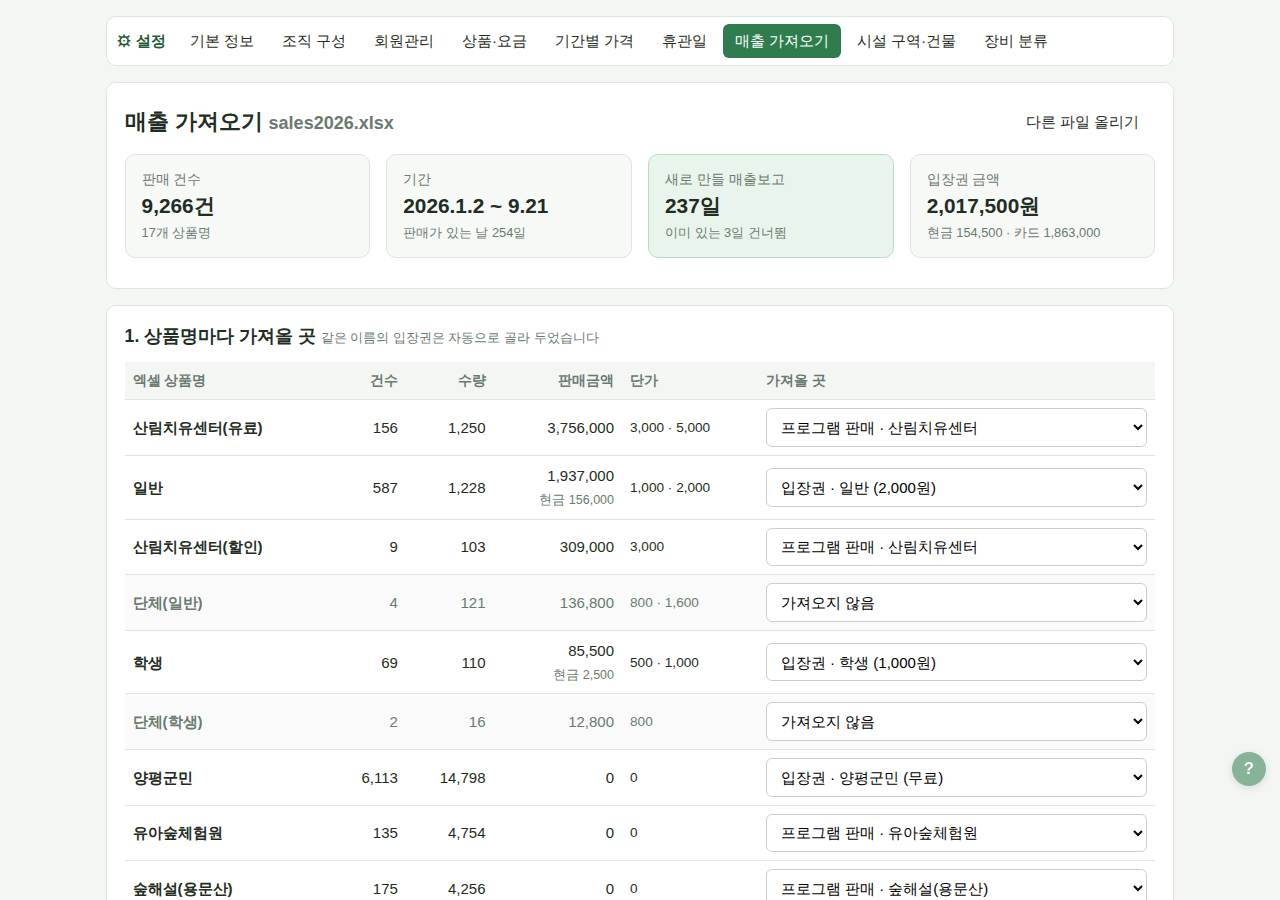
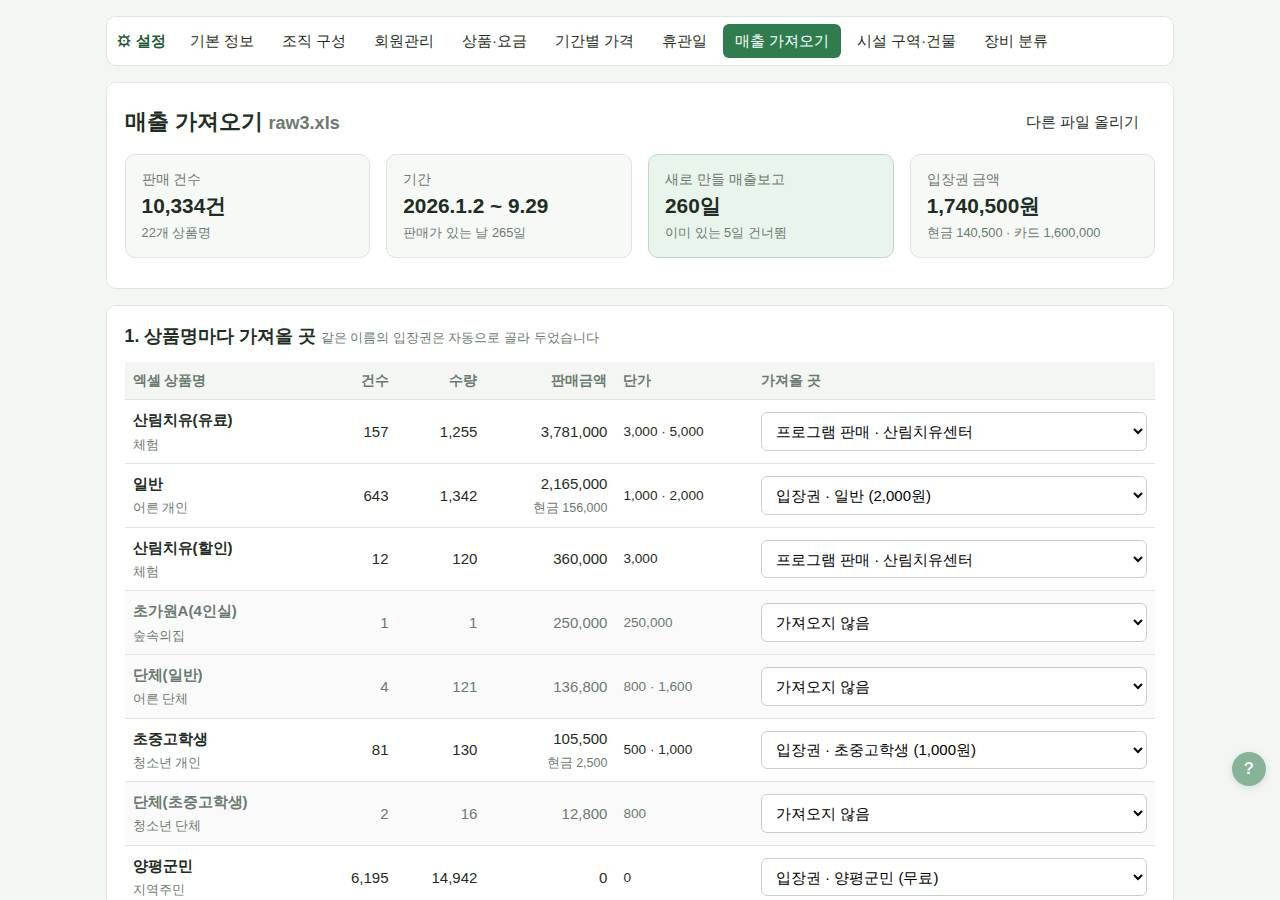
매출 가져오기: 산림청 통합운영시스템 상품판매현황(.xls) 그대로 올리기
PHP 로 OLE2·BIFF8(.xls) 직접 읽기(xls_read), 위쪽 10줄 안에서 머리글 줄 찾기, 사용일자·결제수단·단가(원)·금액(원) 인식,
합계·쪽 번호 줄 건너뜀, 상품구분 표시. 도움말·업데이트·README 반영.

Claude-Session: https://claude.ai/code/session_01Lr6yxKyasrSL9QLfMX5TX8

diff --git a/admin/import_sales.php b/admin/import_sales.php
@@ -17,12 +17,19 @@ $imp = $_SESSION[IMP_KEY] ?? null;
 /** 엑셀 머리글에서 열 찾기 */
 function imp_columns(array $head): array
 {
-    $want = ['date' => ['날짜', '일자', '판매일'], 'name' => ['상품명', '상품', '권종'], 'pay' => ['지불방법', '결제', '결제방법', '지불'],
-             'price' => ['금액', '단가'], 'qty' => ['수량', '매수'], 'amount' => ['판매금액', '합계', '판매액']];
+    // 머리글 이름 → 항목 (공백·"(원)" 같은 단위는 빼고 비교). 산림청 통합운영시스템: 사용일자·상품구분·상품명·결제수단·단가(원)·수량·금액(원)
+    $want = ['date' => ['날짜', '일자', '판매일', '사용일자', '이용일자', '판매일자'], 'name' => ['상품명', '상품', '권종'], 'cat' => ['상품구분', '구분'],
+             'pay' => ['지불방법', '결제', '결제방법', '결제수단', '지불'], 'price' => ['단가'], 'qty' => ['수량', '매수'], 'amount' => ['판매금액', '판매액', '합계금액']];
     $cols = [];
+    $gold = null; // '금액': 판매금액 열이 따로 있으면 단가, 없으면 판매금액
     foreach ($head as $i => $h) {
-        $h = preg_replace('/\s+/u', '', (string) $h);
+        $h = preg_replace('/\s+|\((원|개|매|명)\)/u', '', (string) $h);
+        if ($h === '금액' && $gold === null) { $gold = $i; continue; }
         foreach ($want as $k => $names) if (!isset($cols[$k]) && in_array($h, $names, true)) { $cols[$k] = $i; break; }
+    }
+    if ($gold !== null) {
+        if (isset($cols['amount'])) $cols['price'] ??= $gold;
+        else $cols['amount'] = $gold;
     }
     return $cols;
 }
@@ -116,9 +123,14 @@ if (is_post()) {
             flash($e->getMessage(), 'error');
             redirect('admin/import_sales.php');
         }
+        // 머리글 줄 찾기: 위쪽 10줄 안에서 날짜·상품명·수량·금액 열이 모두 있는 줄 (제목·출력일시 줄이 위에 있어도 됨)
+        $start = 1;
         $cols = imp_columns($rows[0] ?? []);
         $missing = array_diff(['date', 'name', 'qty', 'amount'], array_keys($cols));
-        $start = 1; // 첫 행 = 머리글
+        for ($h = 1; $missing && $h < min(10, count($rows)); $h++) {
+            $try = imp_columns($rows[$h]);
+            if (!array_diff(['date', 'name', 'qty', 'amount'], array_keys($try))) { $cols = $try; $missing = []; $start = $h + 1; }
+        }
         // 머리글 없이 첫 줄부터 판매 내역이면 기본 열 순서(날짜·상품명·지불방법·금액·수량·판매금액)로 읽는다
         if ($missing && count($rows[0] ?? []) >= 6 && sheet_date($rows[0][0] ?? null)) {
             $cols = ['date' => 0, 'name' => 1, 'pay' => 2, 'price' => 3, 'qty' => 4, 'amount' => 5];
@@ -126,19 +138,23 @@ if (is_post()) {
             $start = 0;
         }
         if ($missing) {
-            flash('엑셀 첫 줄(머리글)에서 ' . implode(', ', array_map(fn($k) => ['date' => '날짜', 'name' => '상품명', 'qty' => '수량', 'amount' => '판매금액'][$k], $missing)) . ' 열을 찾지 못했습니다. 머리글이 없으면 A~F열이 날짜·상품명·지불방법·금액·수량·판매금액 순서여야 합니다.', 'error');
+            flash('엑셀 위쪽(머리글)에서 ' . implode(', ', array_map(fn($k) => ['date' => '날짜', 'name' => '상품명', 'qty' => '수량', 'amount' => '판매금액'][$k], $missing)) . ' 열을 찾지 못했습니다. 머리글이 없으면 A~F열이 날짜·상품명·지불방법·금액·수량·판매금액 순서여야 합니다.', 'error');
             redirect('admin/import_sales.php');
         }
         $agg = [];    // 날짜 => 상품명 => 지불|단가 => 합계
         $names = [];  // 상품명 => 합계
         $bad = [];
+        $dataRows = 0;
         foreach (array_slice($rows, $start) as $i => $r) {
+            if (array_filter($r, fn($v) => is_string($v) && in_array(trim($v), ['합계', '소계', '총계', '총합계'], true))) continue; // 합계 줄
             $date = sheet_date($r[$cols['date']] ?? null);
             $name = trim((string) ($r[$cols['name']] ?? ''));
             $qty = (int) round((float) ($r[$cols['qty']] ?? 0));
             $amt = (int) round((float) ($r[$cols['amount']] ?? 0));
             if (!$date && $name === '' && !$qty && !$amt) continue; // 빈 줄
             if (!$date || $name === '') { if (count($bad) < 20) $bad[] = ($i + $start + 1) . '행'; continue; }
+            $dataRows++;
+            $cat = isset($cols['cat']) ? trim((string) ($r[$cols['cat']] ?? '')) : '';
             $pay = isset($cols['pay']) && str_contains((string) ($r[$cols['pay']] ?? ''), '현금') ? '현금' : (isset($cols['pay']) ? '카드' : '카드');
             $price = isset($cols['price']) ? (int) round((float) ($r[$cols['price']] ?? 0)) : ($qty ? intdiv($amt, $qty) : 0);
             $k = "$pay|$price";
@@ -146,7 +162,8 @@ if (is_post()) {
             $agg[$date][$name][$k]['qty'] += $qty;
             $agg[$date][$name][$k]['amount'] += $amt;
             $agg[$date][$name][$k]['rows']++;
-            $names[$name] ??= ['rows' => 0, 'qty' => 0, 'amount' => 0, 'cash' => 0, 'prices' => []];
+            $names[$name] ??= ['rows' => 0, 'qty' => 0, 'amount' => 0, 'cash' => 0, 'prices' => [], 'cats' => []];
+            if ($cat !== '') $names[$name]['cats'][$cat] = true;
             $names[$name]['rows']++;
             $names[$name]['qty'] += $qty;
             $names[$name]['amount'] += $amt;
@@ -157,7 +174,7 @@ if (is_post()) {
         ksort($agg);
         uasort($names, fn($a, $b) => $b['amount'] <=> $a['amount'] ?: $b['qty'] <=> $a['qty']);
         $targets = imp_targets();
-        $_SESSION[IMP_KEY] = ['file' => (string) $f['name'], 'rows' => count($rows) - $start, 'bad' => $bad, 'agg' => array_map(fn($d) => array_map('array_values', $d), $agg),
+        $_SESSION[IMP_KEY] = ['file' => (string) $f['name'], 'rows' => $dataRows, 'bad' => $bad, 'agg' => array_map(fn($d) => array_map('array_values', $d), $agg),
             'names' => $names, 'map' => array_combine(array_keys($names), array_map(fn($n) => imp_guess($n, $targets), array_keys($names))), 'status' => 'approved'];
         redirect('admin/import_sales.php');
     }
@@ -210,14 +227,15 @@ if (!$imp): ?>
   <h1>매출 가져오기 <small class="muted">엑셀 → 날짜별 매출보고</small></h1>
   <p>매표 프로그램에서 내려받은 <b>판매 내역 엑셀</b>을 올리면 날짜별로 묶어 <b>매출보고</b>를 한꺼번에 만듭니다.</p>
   <ul class="small">
-    <li>첫 줄(머리글)에 <b>날짜 · 상품명 · 지불방법 · 금액 · 수량 · 판매금액</b> 열이 있어야 합니다 (한 줄 = 판매 1건). .xlsx 또는 .csv<br>
-      머리글이 없으면 A~F열을 이 순서(날짜·상품명·지불방법·금액·수량·판매금액)로 읽습니다.</li>
+    <li><b>산림청 통합운영시스템의 '상품판매현황' 엑셀(.xls)을 그대로</b> 올리면 됩니다 (제목 줄·합계 줄·쪽 번호는 알아서 건너뜀).</li>
+    <li>다른 엑셀(.xlsx/.xls/.csv)도 머리글에 <b>날짜(사용일자) · 상품명 · 지불방법(결제수단) · 단가 · 수량 · 금액</b> 열이 있으면 됩니다 (한 줄 = 판매 1건).
+      머리글이 없으면 A~F열을 날짜·상품명·지불방법·단가·수량·판매금액 순서로 읽습니다.</li>
     <li>올린 뒤 상품명마다 <b>가져올 곳</b>(입장권 상품 / 프로그램 판매 / 가져오지 않음)을 확인하고, 미리보기를 본 다음 가져옵니다. 올리기만 해서는 아무것도 저장되지 않습니다.</li>
     <li><b>이미 매출보고가 있는 날은 건너뜁니다</b> (덮어쓰지 않음). 객실·시설대관은 가져오지 않습니다.</li>
   </ul>
   <form method="post" enctype="multipart/form-data" class="actions" style="justify-content:flex-start">
     <?= csrf_field() ?><input type="hidden" name="act" value="upload">
-    <input type="file" name="file" accept=".xlsx,.csv" required>
+    <input type="file" name="file" accept=".xlsx,.xls,.csv" required>
     <button class="btn primary">올리기</button>
   </form>
 </section>
@@ -278,7 +296,7 @@ $unmapped = array_filter($imp['map'], fn($v) => $v === '');
     <tbody>
     <?php $i = 0; foreach ($imp['names'] as $name => $n): $cur = $imp['map'][$name] ?? ''; ?>
       <tr class="<?= $cur === '' ? 'inactive' : '' ?>">
-        <td><b><?= e($name) ?></b></td><td class="right"><?= number_format($n['rows']) ?></td><td class="right"><?= number_format($n['qty']) ?></td>
+        <td><b><?= e($name) ?></b><?= !empty($n['cats']) ? '<br><small class="muted">' . e(implode(', ', array_keys($n['cats']))) . '</small>' : '' ?></td><td class="right"><?= number_format($n['rows']) ?></td><td class="right"><?= number_format($n['qty']) ?></td>
         <td class="right"><?= number_format($n['amount']) ?><?= $n['cash'] ? '<br><small class="muted">현금 ' . number_format($n['cash']) . '</small>' : '' ?></td>
         <td class="small"><?= e(implode(' · ', array_map('number_format', array_keys($n['prices'])))) ?></td>
         <td><select name="map[<?= $i ?>]">

diff --git a/app/xlsx_read.php b/app/xlsx_read.php
@@ -8,6 +8,9 @@ defined('APP_ROOT') || exit;
  */
 function sheet_read(string $path, string $name = ''): array
 {
+    $head = (string) file_get_contents($path, false, null, 0, 8);
+    if ($head === "\xD0\xCF\x11\xE0\xA1\xB1\x1A\xE1") return xls_read($path); // 예전 엑셀(.xls, 산림청 통합운영시스템 등)
+    if (str_starts_with(ltrim($head), '<')) throw new RuntimeException('이 파일은 엑셀 형식이 아닙니다 (웹 페이지를 .xls 로 저장한 파일). 엑셀에서 열어 "다른 이름으로 저장 › Excel 통합 문서(.xlsx)"로 저장해 올려 주세요.');
     if (preg_match('/\.csv$/i', $name) || !class_exists('ZipArchive')) return csv_read($path);
     $zip = new ZipArchive();
     if ($zip->open($path) !== true) throw new RuntimeException('엑셀(.xlsx) 파일을 열 수 없습니다. 엑셀에서 "다른 이름으로 저장 › Excel 통합 문서(.xlsx)"로 저장해 올려 주세요.');
@@ -53,6 +56,148 @@ function sheet_read(string $path, string $name = ''): array
         if (!$cells) continue;
         $out = [];
         for ($i = 0; $i <= max(array_keys($cells)); $i++) $out[] = $cells[$i] ?? null;
+        $rows[] = $out;
+    }
+    return $rows;
+}
+
+/**
+ * 예전 엑셀(.xls, BIFF8) 첫 번째 시트 읽기 — 외부 라이브러리 없이.
+ * OLE2 복합 파일에서 Workbook 스트림을 꺼내 문자열표(SST)와 셀(LABELSST·LABEL·NUMBER·RK·MULRK·FORMULA)만 읽는다.
+ */
+function xls_read(string $path): array
+{
+    $f = (string) file_get_contents($path);
+    $u16 = fn(string $b, int $o) => unpack('v', $b, $o)[1];
+    $u32 = fn(string $b, int $o) => unpack('V', $b, $o)[1];
+    $ss = 1 << $u16($f, 0x1E);          // 섹터 크기 (보통 512)
+    $mss = 1 << $u16($f, 0x20);         // 미니 섹터 크기 (64)
+    $sector = fn(int $sid) => substr($f, ($sid + 1) * $ss, $ss);
+    // FAT 섹터 목록 (헤더 109개 + DIFAT 사슬)
+    $fatSids = [];
+    for ($i = 0; $i < 109; $i++) { $v = $u32($f, 0x4C + $i * 4); if ($v < 0xFFFFFFFA) $fatSids[] = $v; }
+    for ($d = $u32($f, 0x44), $n = $u32($f, 0x48); $n > 0 && $d < 0xFFFFFFFA; $n--) {
+        $blk = $sector($d);
+        for ($i = 0; $i < $ss / 4 - 1; $i++) { $v = $u32($blk, $i * 4); if ($v < 0xFFFFFFFA) $fatSids[] = $v; }
+        $d = $u32($blk, $ss - 4);
+    }
+    $fat = [];
+    foreach ($fatSids as $sid) foreach (unpack('V*', $sector($sid)) as $v) $fat[] = $v;
+    $chain = function (int $start, array $table) {
+        $out = [];
+        for ($s = $start, $guard = 0; $s < 0xFFFFFFFA && isset($table[$s]) && $guard < 2000000; $s = $table[$s], $guard++) $out[] = $s;
+        return $out;
+    };
+    $read = fn(int $start) => implode('', array_map($sector, $chain($start, $fat)));
+    // 디렉터리에서 Workbook 스트림 찾기
+    $dir = $read($u32($f, 0x30));
+    $root = null; $wb = null;
+    for ($o = 0; $o + 128 <= strlen($dir); $o += 128) {
+        $nlen = $u16($dir, $o + 0x40);
+        $ename = $nlen > 2 ? mb_convert_encoding(substr($dir, $o, $nlen - 2), 'UTF-8', 'UTF-16LE') : '';
+        $ent = ['type' => ord($dir[$o + 0x42]), 'start' => $u32($dir, $o + 0x74), 'size' => $u32($dir, $o + 0x78)];
+        if ($ent['type'] === 5) $root = $ent;
+        if (in_array($ename, ['Workbook', 'Book'], true)) $wb = $ent;
+    }
+    if (!$wb) throw new RuntimeException('엑셀(.xls) 파일에서 시트를 찾지 못했습니다.');
+    if ($wb['size'] < $u32($f, 0x38) && $root) { // 작은 스트림은 미니 스트림에 있다
+        $minifat = [];
+        foreach ($chain($u32($f, 0x3C), $fat) as $sid) foreach (unpack('V*', $sector($sid)) as $v) $minifat[] = $v;
+        $ministream = $read($root['start']);
+        $data = implode('', array_map(fn($s) => substr($ministream, $s * $mss, $mss), $chain($wb['start'], $minifat)));
+    } else {
+        $data = $read($wb['start']);
+    }
+    $data = substr($data, 0, $wb['size']);
+    $len = strlen($data);
+    // 문자열 읽기 (BIFF8: 글자 수, 옵션(압축·서식·확장), CONTINUE 경계에서는 옵션 바이트가 다시 온다)
+    $str = function (string $buf, int &$p, array $bounds = [], bool $short = false) use ($u16, $u32) {
+        $cch = $short ? ord($buf[$p++]) : $u16($buf, $p);
+        if (!$short) $p += 2;
+        $flags = ord($buf[$p++]);
+        $rich = $flags & 0x08 ? $u16($buf, $p) : 0; if ($flags & 0x08) $p += 2;
+        $ext = $flags & 0x04 ? $u32($buf, $p) : 0; if ($flags & 0x04) $p += 4;
+        $high = (bool) ($flags & 0x01);
+        $out = '';
+        // 글자가 CONTINUE 레코드 첫머리에서 시작하면 거기에 옵션 바이트가 다시 온다
+        if ($cch > 0 && in_array($p, $bounds, true)) $high = (bool) (ord($buf[$p++]) & 0x01);
+        while ($cch > 0) {
+            $next = PHP_INT_MAX;
+            foreach ($bounds as $b) if ($b > $p) { $next = $b; break; }
+            $avail = intdiv(min($next, strlen($buf)) - $p, $high ? 2 : 1);
+            $take = min($cch, $avail);
+            $chunk = substr($buf, $p, $take * ($high ? 2 : 1));
+            $out .= $high ? mb_convert_encoding($chunk, 'UTF-8', 'UTF-16LE') : mb_convert_encoding($chunk, 'UTF-8', 'ISO-8859-1');
+            $p += strlen($chunk);
+            $cch -= $take;
+            if ($cch > 0) { if ($p >= strlen($buf)) break; $high = (bool) (ord($buf[$p++]) & 0x01); }
+        }
+        $p += $rich * 4 + $ext;
+        return $out;
+    };
+    $rk = function (int $v): float|int {
+        if ($v & 0x02) { $n = $v >> 2; if ($n & 0x20000000) $n -= 0x40000000; }
+        else { $n = unpack('e', pack('V', 0) . pack('V', $v & 0xFFFFFFFC))[1]; }
+        return $v & 0x01 ? $n / 100 : $n;
+    };
+    // 1) 워크북 영역: 문자열표 · 첫 시트 위치
+    $sst = [];
+    $sheetPos = null;
+    for ($p = 0; $p + 4 <= $len;) {
+        $type = $u16($data, $p); $rl = $u16($data, $p + 2);
+        $rec = substr($data, $p + 4, $rl);
+        $p += 4 + $rl;
+        if ($type === 0x0085 && $sheetPos === null && ord($rec[5] ?? "\0") === 0) $sheetPos = $u32($rec, 0);
+        if ($type === 0x00FC) {
+            $bounds = [];
+            while ($p + 4 <= $len && $u16($data, $p) === 0x003C) { // CONTINUE
+                $cl = $u16($data, $p + 2);
+                $bounds[] = strlen($rec);
+                $rec .= substr($data, $p + 4, $cl);
+                $p += 4 + $cl;
+            }
+            $count = $u32($rec, 4);
+            for ($q = 8, $i = 0; $i < $count && $q < strlen($rec); $i++) $sst[] = $str($rec, $q, $bounds);
+        }
+        if ($type === 0x000A) break; // 워크북 영역 끝
+    }
+    if ($sheetPos === null) throw new RuntimeException('엑셀(.xls) 파일에서 시트를 찾지 못했습니다.');
+    // 2) 첫 시트의 셀
+    $cells = [];
+    $pendingFormula = null;
+    for ($p = $sheetPos; $p + 4 <= $len;) {
+        $type = $u16($data, $p); $rl = $u16($data, $p + 2);
+        $rec = substr($data, $p + 4, $rl);
+        $p += 4 + $rl;
+        if ($type === 0x000A) break; // 시트 끝
+        if ($rl < 6 && $type !== 0x0207) continue;
+        $r = $rl >= 4 ? $u16($rec, 0) : 0; $c = $rl >= 4 ? $u16($rec, 2) : 0;
+        switch ($type) {
+            case 0x00FD: $cells[$r][$c] = $sst[$u32($rec, 6)] ?? ''; break;                 // LABELSST
+            case 0x0204: $q = 6; $cells[$r][$c] = $str($rec, $q); break;                   // LABEL
+            case 0x0203: $cells[$r][$c] = unpack('e', $rec, 6)[1]; break;                  // NUMBER
+            case 0x027E: $cells[$r][$c] = $rk($u32($rec, 6)); break;                       // RK
+            case 0x00BD:                                                                     // MULRK
+                for ($q = 4, $cc = $c; $q + 6 <= $rl - 2; $q += 6, $cc++) $cells[$r][$cc] = $rk($u32($rec, $q + 2));
+                break;
+            case 0x0006:                                                                     // FORMULA
+                if (substr($rec, 12, 2) === "\xFF\xFF") { $pendingFormula = [$r, $c]; if (ord($rec[6]) === 1) $cells[$r][$c] = ord($rec[8]); }
+                else $cells[$r][$c] = unpack('e', $rec, 6)[1];
+                break;
+            case 0x0207:                                                                     // STRING (수식 결과)
+                if ($pendingFormula) { $q = 0; $cells[$pendingFormula[0]][$pendingFormula[1]] = $str($rec, $q); $pendingFormula = null; }
+                break;
+            case 0x0205: $cells[$r][$c] = ord($rec[6]); break;                              // BOOLERR
+        }
+    }
+    ksort($cells);
+    $rows = [];
+    foreach ($cells as $row) {
+        $out = [];
+        for ($i = 0; $i <= max(array_keys($row)); $i++) {
+            $v = $row[$i] ?? null;
+            $out[] = is_float($v) && floor($v) === $v && abs($v) < 1e15 ? $v : $v;
+        }
         $rows[] = $out;
     }
     return $rows;

diff --git a/app/help.php b/app/help.php
@@ -354,8 +354,9 @@ HTML],
             ['id' => 'set_import', 'title' => '매출 가져오기 (엑셀 → 매출보고)', 'keys' => ['settings_import'], 'img' => ['set_import.jpg' => '설정 › 매출 가져오기'], 'body' => <<<'HTML'
 <p>매표 프로그램에서 내려받은 <b>판매 내역 엑셀</b>(한 줄 = 판매 1건)을 올려 날짜별 <b>매출보고</b>를 한꺼번에 만듭니다. 최고관리자만 씁니다.</p>
 <ol>
-  <li>엑셀 첫 줄(머리글)에 <b>날짜 · 상품명 · 지불방법 · 금액 · 수량 · 판매금액</b> 열이 있어야 합니다 (.xlsx 또는 .csv). 머리글이 없으면 A~F열을 이 순서로 읽습니다. <b>올리기</b>만 해서는 저장되지 않습니다.</li>
-  <li><b>상품명마다 가져올 곳</b>을 확인합니다: 입장권 상품 / 프로그램 판매(분야) / 가져오지 않음. 같은 이름의 입장권은 자동으로 골라 둡니다. 알맞은 입장권이 없으면 설정 › 상품·요금에서 먼저 만든 뒤 새로고침하세요.</li>
+  <li><b>산림청 통합운영시스템 › 상품판매현황</b>에서 받은 엑셀(.xls)을 <b>고치지 않고 그대로</b> 올리면 됩니다. 제목 줄·합계 줄·쪽 번호는 알아서 건너뜁니다.
+    다른 엑셀(.xlsx/.xls/.csv)은 머리글에 날짜(사용일자) · 상품명 · 지불방법(결제수단) · 단가 · 수량 · 금액 열이 있으면 되고, 머리글이 없으면 A~F열을 이 순서로 읽습니다. <b>올리기</b>만 해서는 저장되지 않습니다.</li>
+  <li><b>상품명마다 가져올 곳</b>을 확인합니다: 입장권 상품 / 프로그램 판매(분야) / 가져오지 않음. 같은 이름의 입장권은 자동으로 골라 두고, 상품명 아래에 엑셀의 <b>상품구분</b>(지역주민·체험·추가인원 등)이 보입니다. 추가인원·숙박·숲속의집처럼 매출보고에 넣지 않을 것은 '가져오지 않음'으로 두세요. 알맞은 입장권이 없으면 설정 › 상품·요금에서 먼저 만든 뒤 새로고침하세요.</li>
   <li><b>등록 상태</b>: 결재완료(지난 자료, 결재를 다시 받지 않음) 또는 임시저장.</li>
   <li><b>미리보기 다시 계산</b>으로 만들 일수·금액을 확인한 뒤 <b>가져오기</b>를 누릅니다.</li>
 </ol>

diff --git a/app/changelog.php b/app/changelog.php
@@ -7,6 +7,10 @@ defined('APP_ROOT') || exit;
  *   ['date' => 'YYYY-MM-DD', 'title' => '한 줄 요약', 'items' => ['자세한 내용', ...], 'menu' => '관련 메뉴(선택)']
  */
 const CHANGELOG = [
+    ['date' => '2026-09-30', 'title' => '매출 가져오기: 산림청 통합운영시스템 엑셀(.xls) 그대로 올리기', 'menu' => '설정', 'items' => [
+        "산림청 통합운영시스템의 '상품판매현황' 엑셀(.xls)을 고치지 않고 올릴 수 있습니다. 제목 줄·합계 줄·쪽 번호는 건너뛰고, 사용일자·상품명·결제수단·단가·수량·금액 열을 찾아 읽습니다.",
+        '가져올 곳을 고르는 표에 엑셀의 상품구분(지역주민·체험·추가인원 등)이 함께 보입니다.',
+    ]],
     ['date' => '2026-09-30', 'title' => '매출 가져오기: 머리글 없는 엑셀도 읽기', 'menu' => '설정', 'items' => [
         "첫 줄에 머리글(날짜·상품명…)이 없는 엑셀을 올리면 '열을 찾지 못했습니다'가 나오던 문제를 고쳤습니다. 머리글이 없으면 A~F열을 날짜·상품명·지불방법·금액·수량·판매금액 순서로 읽습니다.",
     ]],

diff --git a/README.md b/README.md
@@ -295,7 +295,9 @@
   진단 화면은 이 기록, 서버 환경(PHP·확장·한도·opcache·폴더 권한), 운영보고 저장 모의 실험(트랜잭션 되돌림), 운영보고와 같은 모양의 폼 보내기 실험, opcache 비우기를 제공합니다.
 
 ## 4-0-c. 매출 가져오기 (설정 › 매출 가져오기, 최고관리자)
-- `admin/import_sales.php`: 매표 프로그램의 판매 내역 엑셀(.xlsx/.csv, 머리글 **날짜·상품명·지불방법·금액·수량·판매금액**, 한 줄 = 1건 — 머리글이 없고 첫 칸이 날짜면 A~F열을 이 순서로 읽음)을 읽어(`app/xlsx_read.php`, zip 확장만 사용)
+- `admin/import_sales.php`: 매표 프로그램의 판매 내역 엑셀(.xlsx/.csv, 머리글 **날짜·상품명·지불방법·금액·수량·판매금액**, 한 줄 = 1건 — 머리글이 없고 첫 칸이 날짜면 A~F열을 이 순서로 읽음).
+  **산림청 통합운영시스템 '상품판매현황'(.xls, BIFF8)**도 그대로: `xls_read()`가 OLE2·BIFF8을 직접 읽고(외부 라이브러리 없음), 위쪽 10줄 안에서 머리글 줄(사용일자·상품구분·상품명·결제수단·단가(원)·수량·금액(원))을 찾으며
+  합계·쪽 번호 줄은 건너뜁니다. 상품구분은 가져올 곳 표에 참고로 보입니다. 예약자 이름 등 개인정보는 저장하지 않습니다(날짜·상품명별 합계만 세션에 둠)을 읽어(`app/xlsx_read.php`, zip 확장만 사용)
   날짜 → 상품명 → 지불방법·단가별로 묶어 세션에 두고, 상품명마다 가져올 곳(입장권 상품 `p:id` / 프로그램 판매 `g:분야` / 가져오지 않음)을 고른 뒤 매출보고(`journals` type sales)를 날짜마다 1건 만듭니다.
 - 이미 매출보고가 있는 날은 건너뜀(덮어쓰지 않음). 입장권은 엑셀 단가·금액 그대로, 현금 금액 합 = `sales_meta.ticket_cash`. 프로그램은 금액>0 수량 = 유료, 0원 = 무료, 건수 = 회차(직접 입력 줄, auto=0);
   그 날 운영보고가 있는 분야는 운영보고 값(auto). 쉬자파크숙박(입실·퇴실)은 평소처럼 일일객실판매에서 계산. 상태는 결재완료(결재선 없이 approved) 또는 임시저장, 작성 기록에 '엑셀 가져오기'.
